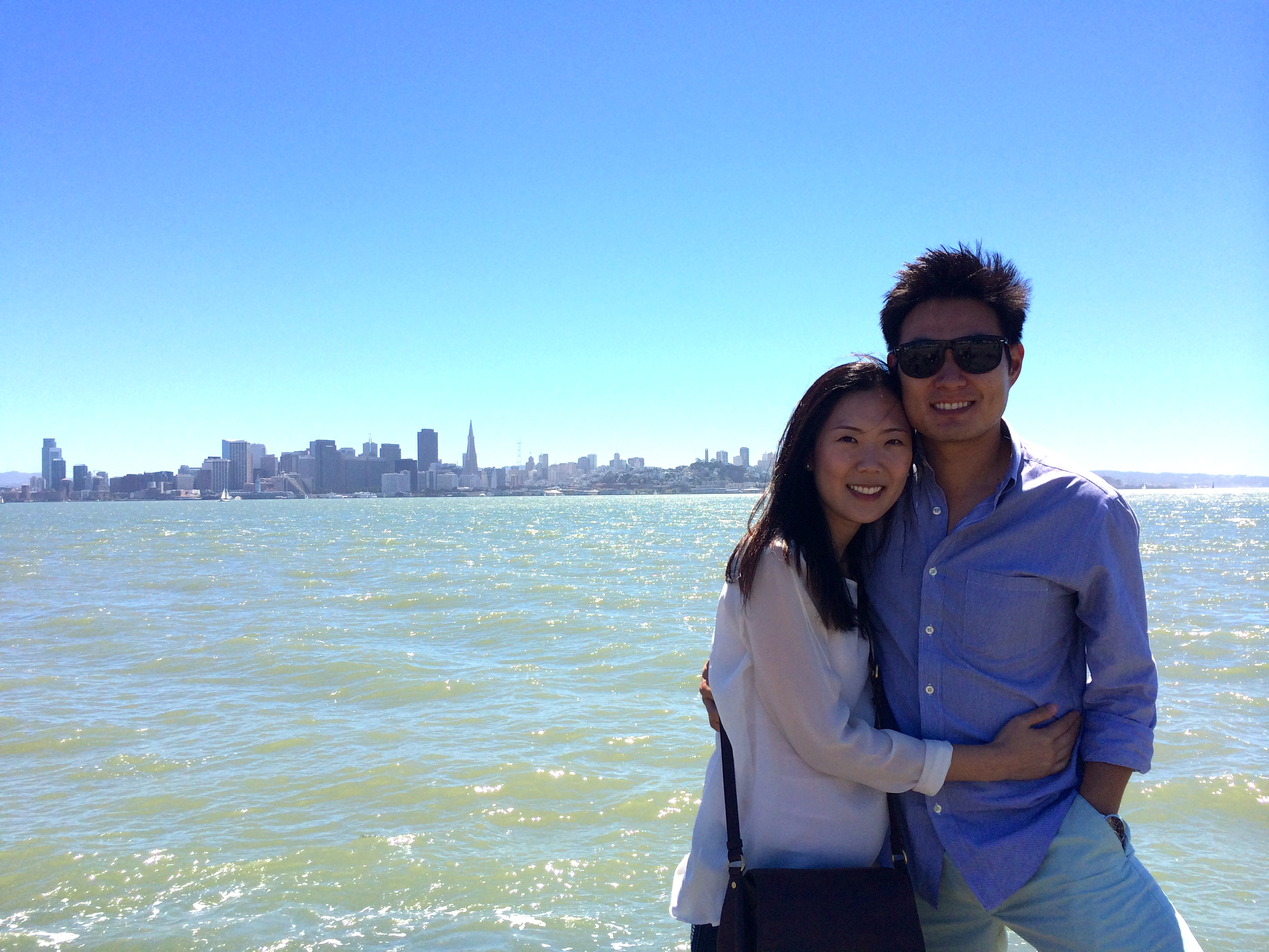
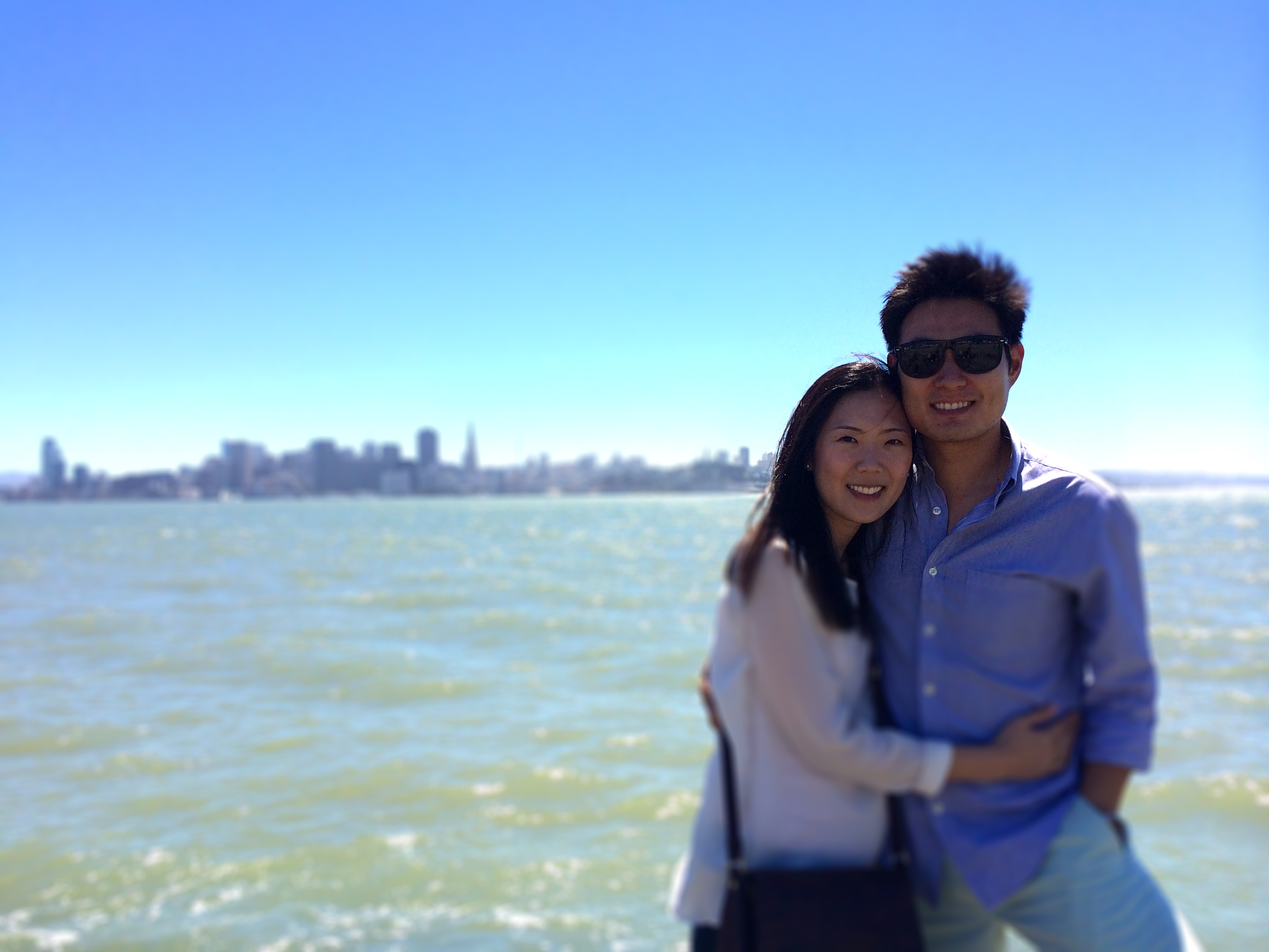
new background image

diff --git a/index.html b/index.html
@@ -9,28 +9,26 @@
 		<link rel="stylesheet" type="text/css" href="css/style.css"/>
 	</head>
 	<body>
-		<nav>
-		<!-- highlight active navigation on scroll and click -->
-		<!-- add fixed navigation when scrolling down -->
-		<!-- Haha, you're funny. Yes we are cute indeed, but we are actually going for more of nautical/preppy theme for our wedding. I know it's hard for you to gauge since you haven't received our invitation yet. I'm attaching some photos of the invitation and decorations so you can see the style/design we are going for.  -->
-		<!-- Home: pretty picture (landscape) of your choice for the background - I think I have a perfect photo for this. It's a great background photo with Doug and I on the right side.  I'll ask my friend for the high resolution file and send it to you today. -->
-			<ul class="navigation">
-				<li><a href="#story">Our Story</a></li>
-				<li><a href="#gallery">Gallery</a></li>
-				<li><a href="#bridalparty">Bridal Party</a></li>
-				<li class="home"><a href="#home">N&amp;D</a></li>
-				<li><a href="#wedding">Wedding</a></li>
-				<li><a href="#registry">Registry</a></li>
-				<li><a href="#hashtag">#NikkiDoug2014</a></li>
-			</ul>
-		</nav>
-		<section id="home">
+		<section id="home" data-type="background">
 			<div class="wrapper">
 				<h1>Nikki &amp; Doug</h1>
 				<h2 class="date">October 4, 2014</h2>
-				<h2>Laguna Beach, CA</h2>
+				<h2 class="place">Laguna Beach, CA</h2>
 			</div>
+      <nav>
+      <!-- Haha, you're funny. Yes we are cute indeed, but we are actually going for more of nautical/preppy theme for our wedding. I know it's hard for you to gauge since you haven't received our invitation yet. I'm attaching some photos of the invitation and decorations so you can see the style/design we are going for.  -->
+        <ul class="navigation">
+          <li class="home"><a href="#home">N&amp;D</a></li>
+          <li><a href="#story">Our Story</a></li>
+          <li><a href="#gallery">Gallery</a></li>
+          <li><a href="#bridalparty">Bridal Party</a></li>
+          <li><a href="#wedding">Wedding</a></li>
+          <li><a href="#registry">Registry</a></li>
+          <li><a href="#hashtag">#NikkiDoug2014</a></li>
+        </ul>
+      </nav>
 		</section>
+		
 		<section id="story">
 		<!-- popup different versions using pictures of doug and nikki -->
 			<div class="wrapper">
@@ -39,24 +37,22 @@
 					<span>Our Story</span>
 					<i class="fa fa-heart"></i>
 				</h1>
-				<h2>Roll over the timeline</h2>
 				<div class="container">
-					<div class="col-md-6">
-	          <h2>Doug's Version</h2>
-	          <p>I don't know if Nikki remembers the first time we met, but it was at our church's annual retreat. She was standing waiting in line to get prayed by a pastor, and I had just come up and stood right in front of her (obviously an honest mistake because I'm a good human being).  She tapped me on the shoulder, and said, "get in line" (as she crinkled her face in annoyance). The first time I met Nikki, I must say, was quite different from the lovey-dovey cloud 9 love at first sight. The way she caught my eye was with her confidence. We were able to drive together after a birthday in the east bay - the first real conversation we shared. We parked outside her apartment sat in my car for about an hour just talking - goals, aspirations, career, etc. I knew then - I wanted to get to know her better.</p>
-						<p>Soon thereafter, I had the opportunity to pick her up from Fullerton to drive back up to San Francisco. We got a chance to share a conversation, until meeting up with the other people that we were supposed to drive up with. I felt such an urge to get to know her. I felt compassion over her immediately and I wanted to finally ask her on a date. The more I got to know her the more I fell in love with her.</p>
-						<p>Fast forward a couple months. We decided to wait until March to officially date, and once that day came, I knew right away - I wanted to spend the rest of my life with this person. It wasn't what she looks like, her desires, her interests. No, it was all icing on the cake. I knew the way I felt about her was real. I knew that I couldn't let her go, and envisioning my life without her was impossible. So, on May 24th, I proposed to her on Mount Tamapais, where we went on our first date, in front of her mom and friends.</p>
-						<p>I'm excited for us to continue to write our story as we enter into the next chapter of life together.</p>
-	          <p><a class="btn btn-default" href="#" role="button">View details »</a></p>
-	        </div>
-					<div class="col-md-6">
-	          <h2>Nikki's Version</h2>
+          <h2>Doug</h2>
+          <div class="item">
+            <p>I don't know if Nikki remembers the first time we met, but it was at our church's annual retreat. She was standing waiting in line to get prayed by a pastor, and I had just come up and stood right in front of her (obviously an honest mistake because I'm a good human being).  She tapped me on the shoulder, and said, "get in line" (as she crinkled her face in annoyance). The first time I met Nikki, I must say, was quite different from the lovey-dovey cloud 9 love at first sight. The way she caught my eye was with her confidence. We were able to drive together after a birthday in the east bay - the first real conversation we shared. We parked outside her apartment sat in my car for about an hour just talking - goals, aspirations, career, etc. I knew then - I wanted to get to know her better.</p>
+            <p>Soon thereafter, I had the opportunity to pick her up from Fullerton to drive back up to San Francisco. We got a chance to share a conversation, until meeting up with the other people that we were supposed to drive up with. I felt such an urge to get to know her. I felt compassion over her immediately and I wanted to finally ask her on a date. The more I got to know her the more I fell in love with her.</p>
+            <p>Fast forward a couple months. We decided to wait until March to officially date, and once that day came, I knew right away - I wanted to spend the rest of my life with this person. It wasn't what she looks like, her desires, her interests. No, it was all icing on the cake. I knew the way I felt about her was real. I knew that I couldn't let her go, and envisioning my life without her was impossible. So, on May 24th, I proposed to her on Mount Tamapais, where we went on our first date, in front of her mom and friends.</p>
+            <p>I'm excited for us to continue to write our story as we enter into the next chapter of life together.</p>
+          </div>
+          <h2>Nikki</h2>
+          <div class="item">
 	          <p>Doug and I met at church and got to know each other better during our drive up from SoCal to San Francisco after the Thanksgiving weekend.  Since I don't have a car in SoCal, Doug graciously offered to pick me up from home to drive up together with other church friends. When Doug was on his way, I decided to prep my mom and let her know that a boy was coming over to the Lee household since she can be overbearing at times. I let her know that Doug was just a buddy giving me a lift, and nothing more. But as soon as Doug met my mom, my mom whispered in my ear and said, "He seems like such a good boy.  I've always wanted you to be with a guy like that." My heart secretly melted then.</p> 
-	          <p>One of my prayer requests for my future husband has always been to meet someone who can love my mom and vice versa. My mom is such an important person in my life so I wanted someone who can share that special bond and join in our family.
+	          <p>One of my prayer requests for my future husband has always been to meet someone who can love my mom and vice versa. My mom is such an important person in my life so I wanted someone who can share that special bond and join in our family.</p>
 	          <p>Since our long drive up to San Francisco, Doug has been fully committed in getting to know me and in working on our relationship. I was skeptical at first but the more I got to know him, the more I couldn't believe how God brought the very person with qualities I had always prayed for in my future husband. It still amazes me at times how God answered my prayer on even the most detailed aspects of Doug's characteristics.</p>
 	          <p>As one of our first dates, we went for a day snowboarding/ski trip to Tahoe. We were excited for the long drive of us getting to know each other better and ski and snowboard since we both haven't done so in a long time. However during our first run down, Doug fell and hit his head against a pile of ice and went into a concussion. He was carried down the mountain on a toboggan by the first aid patrols and we soon ended up in the ER nearby. I was obviously worried as I was sitting in the ER waiting room, but as tears were coming down my face, I realized I cared for him a lot and loved him.</p>
 	          <p>We became "official" that day in the ER. Looking back, funny how everything worked out. I used to always wonder why God hadn't sent me someone already. I now know why it took so long - because He had Doug in store for me.</p>
-	          <p><a class="btn btn-default" href="#" role="button">View details »</a></p>
+          </div>
 	        </div>
         </div>
 			</div>
@@ -72,42 +68,42 @@
 				<div class="container">
 					<div class="row">
 						<div class="col-md-2">
-							<img class="img-thumbnail" src="images/photos/photo1.jpg"/>
+							<img class="img-thumbnail" src="images/gallery/photo1.jpg"/>
 						</div>
 						<div class="col-md-2">
-							<img class="img-thumbnail" src="images/photos/photo1.jpg"/>
+							<img class="img-thumbnail" src="images/gallery/photo1.jpg"/>
 						</div>
 						<div class="col-md-2">
-							<img class="img-thumbnail" src="images/photos/photo1.jpg"/>
+							<img class="img-thumbnail" src="images/gallery/photo1.jpg"/>
 						</div>
 						<div class="col-md-2">
-							<img class="img-thumbnail" src="images/photos/photo1.jpg"/>
+							<img class="img-thumbnail" src="images/gallery/photo1.jpg"/>
 						</div>
 						<div class="col-md-2">
-							<img class="img-thumbnail" src="images/photos/photo1.jpg"/>
+							<img class="img-thumbnail" src="images/gallery/photo1.jpg"/>
 						</div>
 						<div class="col-md-2">
-							<img class="img-thumbnail" src="images/photos/photo1.jpg"/>
+							<img class="img-thumbnail" src="images/gallery/photo1.jpg"/>
 						</div>
 					</div>
 					<div class="row">
 						<div class="col-md-2">
-							<img class="img-thumbnail" src="images/photos/photo1.jpg"/>
+							<img class="img-thumbnail" src="images/gallery/photo1.jpg"/>
 						</div>
 						<div class="col-md-2">
-							<img class="img-thumbnail" src="images/photos/photo1.jpg"/>
+							<img class="img-thumbnail" src="images/gallery/photo1.jpg"/>
 						</div>
 						<div class="col-md-2">
-							<img class="img-thumbnail" src="images/photos/photo1.jpg"/>
+							<img class="img-thumbnail" src="images/gallery/photo1.jpg"/>
 						</div>
 						<div class="col-md-2">
-							<img class="img-thumbnail" src="images/photos/photo1.jpg"/>
+							<img class="img-thumbnail" src="images/gallery/photo1.jpg"/>
 						</div>
 						<div class="col-md-2">
-							<img class="img-thumbnail" src="images/photos/photo1.jpg"/>
+							<img class="img-thumbnail" src="images/gallery/photo1.jpg"/>
 						</div>
 						<div class="col-md-2">
-							<img class="img-thumbnail" src="images/photos/photo1.jpg"/>
+							<img class="img-thumbnail" src="images/gallery/photo1.jpg"/>
 						</div>
 					</div>
 				</div>

diff --git a/css/style.css b/css/style.css
@@ -20,21 +20,18 @@ body {
 }
 
 nav {
-	background-color: #383838;
-	-webkit-box-shadow: 1px 0px 15px #333;
-	-moz-box-shadow: 1px 0px 15px #333;
-	box-shadow: 1px 0px 15px #333;
-	filter: alpha(opacity=70);
-	opacity: 0.7;
-	position: fixed;
+  background-color: #383838;
+  -webkit-box-shadow: 1px 0px 15px #333;
+  -moz-box-shadow: 1px 0px 15px #333;
+  box-shadow: 1px 0px 15px #333;
+  filter: alpha(opacity=70);
+  opacity: 0.7;
 	width: 100%;
-	z-index: 10;
 }
 
 .navigation {
 	margin: 0 auto;
 	padding: 0;
-	position: relative;
 	text-align: center;
 	width: 960px;
 }
@@ -71,6 +68,12 @@ nav {
 	vertical-align: top;
 }
 
+nav.fixed {
+	position: fixed;
+	top: 0;
+	z-index: 10;
+}
+
 .navigation .active {
 	color: #fff;
 }
@@ -94,17 +97,6 @@ section h2 {
 	margin-top: 0;
 }
 
-/*
-background: url("../images/about.jpg");
-background-attachment: fixed;
-background-clip: initial;
-background-origin: initial;
-background-position: 100% 0;
-background-repeat: no-repeat;
-background-size: cover;
-position: relative;
-*/
-
 .container {
 	margin: 0 auto;
 	text-align: left;
@@ -118,16 +110,25 @@ position: relative;
 }
 
 #home {
-	background: #34495e;
+	background: url("../images/bg-home.jpg") no-repeat center center fixed; 
+  -webkit-background-size: cover;
+  -moz-background-size: cover;
+  -o-background-size: cover;
+  background-size: cover;
+  text-shadow: 9px 8px 0px rgba(0, 0, 0, 0.15);
 }
 
 #home .date {
-	background: #fff;
-	color: #34495e;
-	display: inline-block;
+  border: 5px solid #fff;
+  display: inline-block;
 	font-family: "Pacifico";
 	font-size: 60px;
-	padding: 25px 50px;
+  padding: 25px 40px;
+  text-shadow: 0px 1px 1px #4d4d4d;
+}
+
+#home .place {
+  text-shadow: 0px 1px 1px #4d4d4d;
 }
 
 #story,
@@ -143,6 +144,14 @@ position: relative;
 #story .col-md-6 {
 	height: 300px;
 	overflow: auto;
+}
+
+#story h2 {
+  text-align: center;
+}
+
+#story .item {
+  display: none;
 }
 
 #gallery,

diff --git a/js/application.js b/js/application.js
@@ -1,5 +1,5 @@
 // Document Window Height
-$(function(){
+$(function() {
     var windowHeight = $(window).height();
     var wrapperHeight = $('.wrapper').height();
     if(windowHeight > wrapperHeight) {                            
@@ -14,7 +14,6 @@ $(function(){
         if(windowHeight > truecontentHeight) {
             $('.wrapper').css('height', (newHeight)+'px');
         }
-
     })          
 });
 
@@ -34,27 +33,24 @@ $(function() {
   });
 });
 
-// Active Class on Click and Scroll
-// needs revising
-$(function(){
-    var sections = {},
-        _height  = $(window).height(),
-        i        = 0;
-    
-    // Grab positions of our sections 
-    $('section').each(function(){
-        sections[this.name] = $(this).offset().top;
+// Active Class on Scroll
+$(window).scroll(function() {
+  var windowScroll = $(window).scrollTop();
+  var windowHeight = $(window).height();
+  if (windowScroll >= windowHeight) {
+    $('nav').addClass('fixed');
+    $('section').each(function(i) {
+      if ($(this).position().top <= windowScroll) {
+        $('.navigation a.active').removeClass('active');
+        $('.navigation a').eq(i).addClass('active');
+      }
     });
+  } else {
+    $('nav').removeClass('fixed');
+    $('.navigation a.active').removeClass('active');
+    $('.navigation a:first').addClass('active');
+  }
+}).scroll();
 
-    $(document).scroll(function(){
-        var $this = $(this),
-            pos   = $this.scrollTop();
-            
-        for(i in sections){
-            if(sections[i] > pos && sections[i] < pos + _height){
-                $('.navigation a').removeClass('active');
-                $('.navigation' + i).addClass('active');
-            }  
-        }
-    });
-});
+// Our Story
+// Click 
